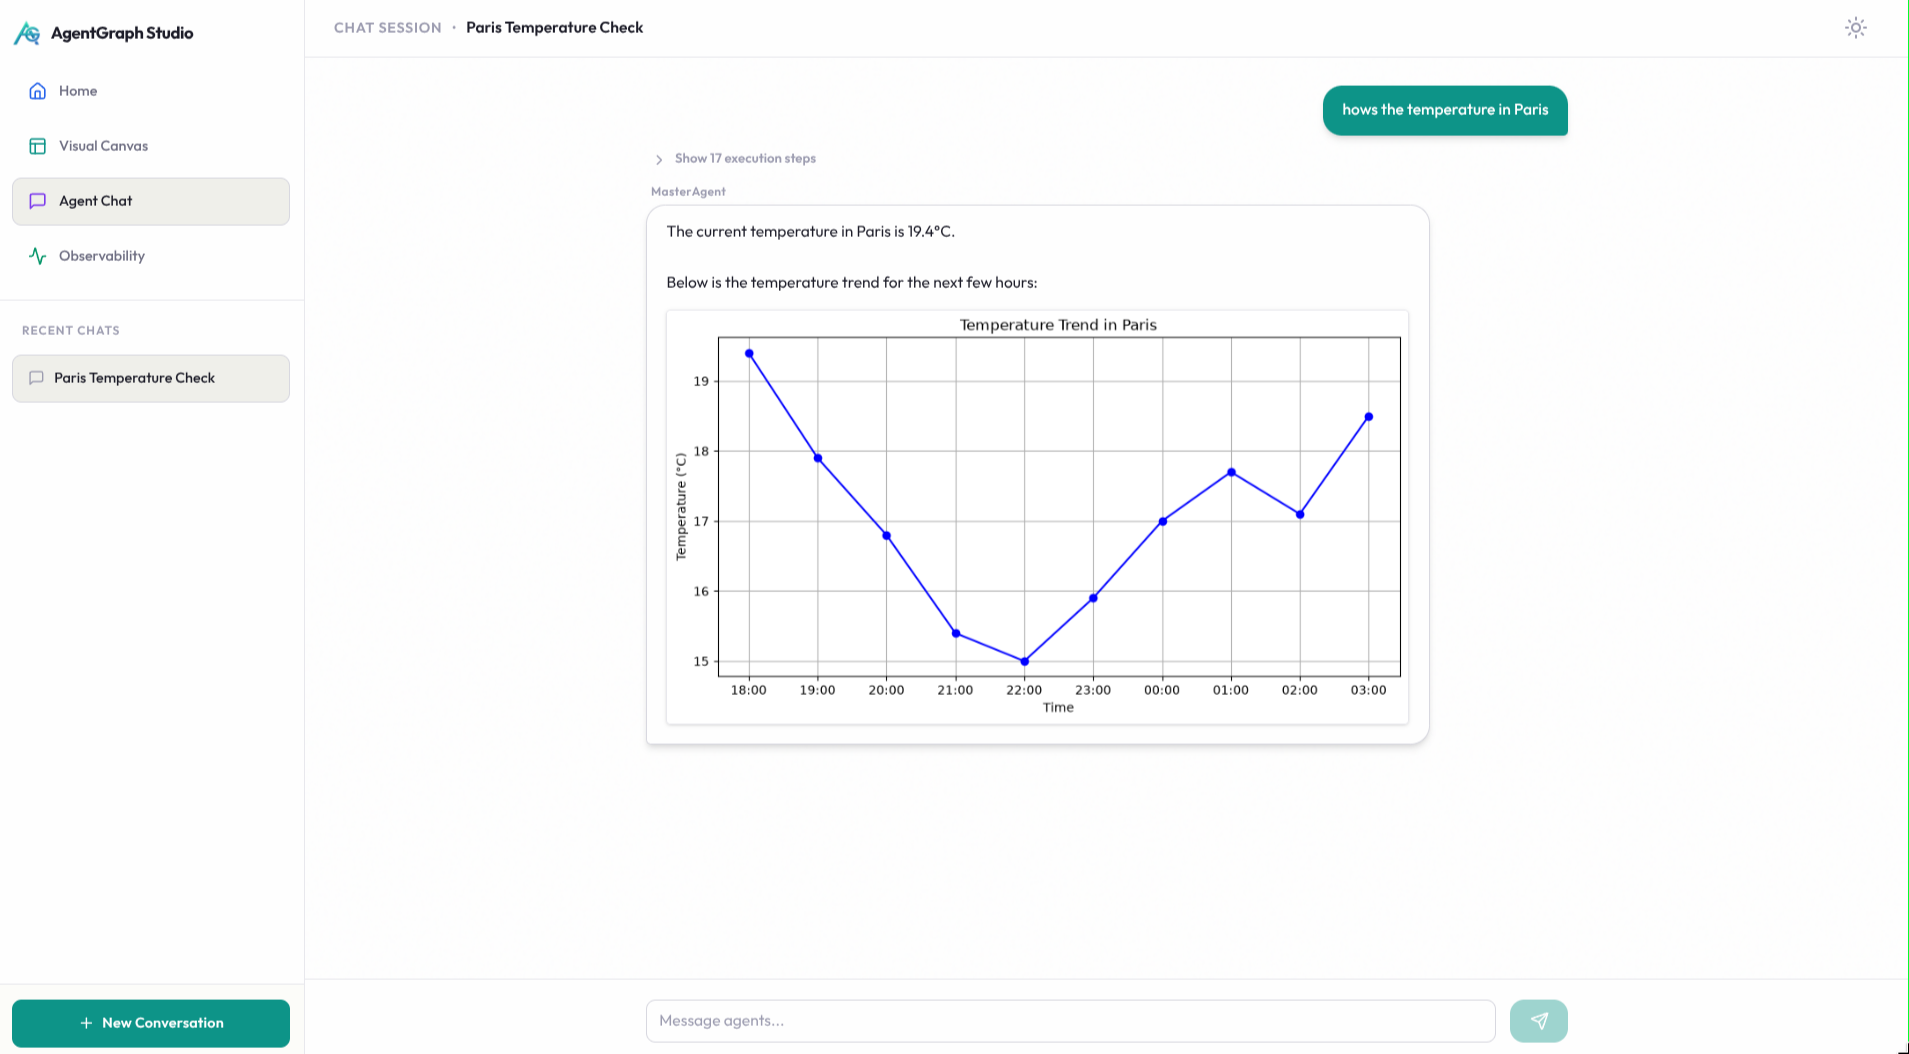
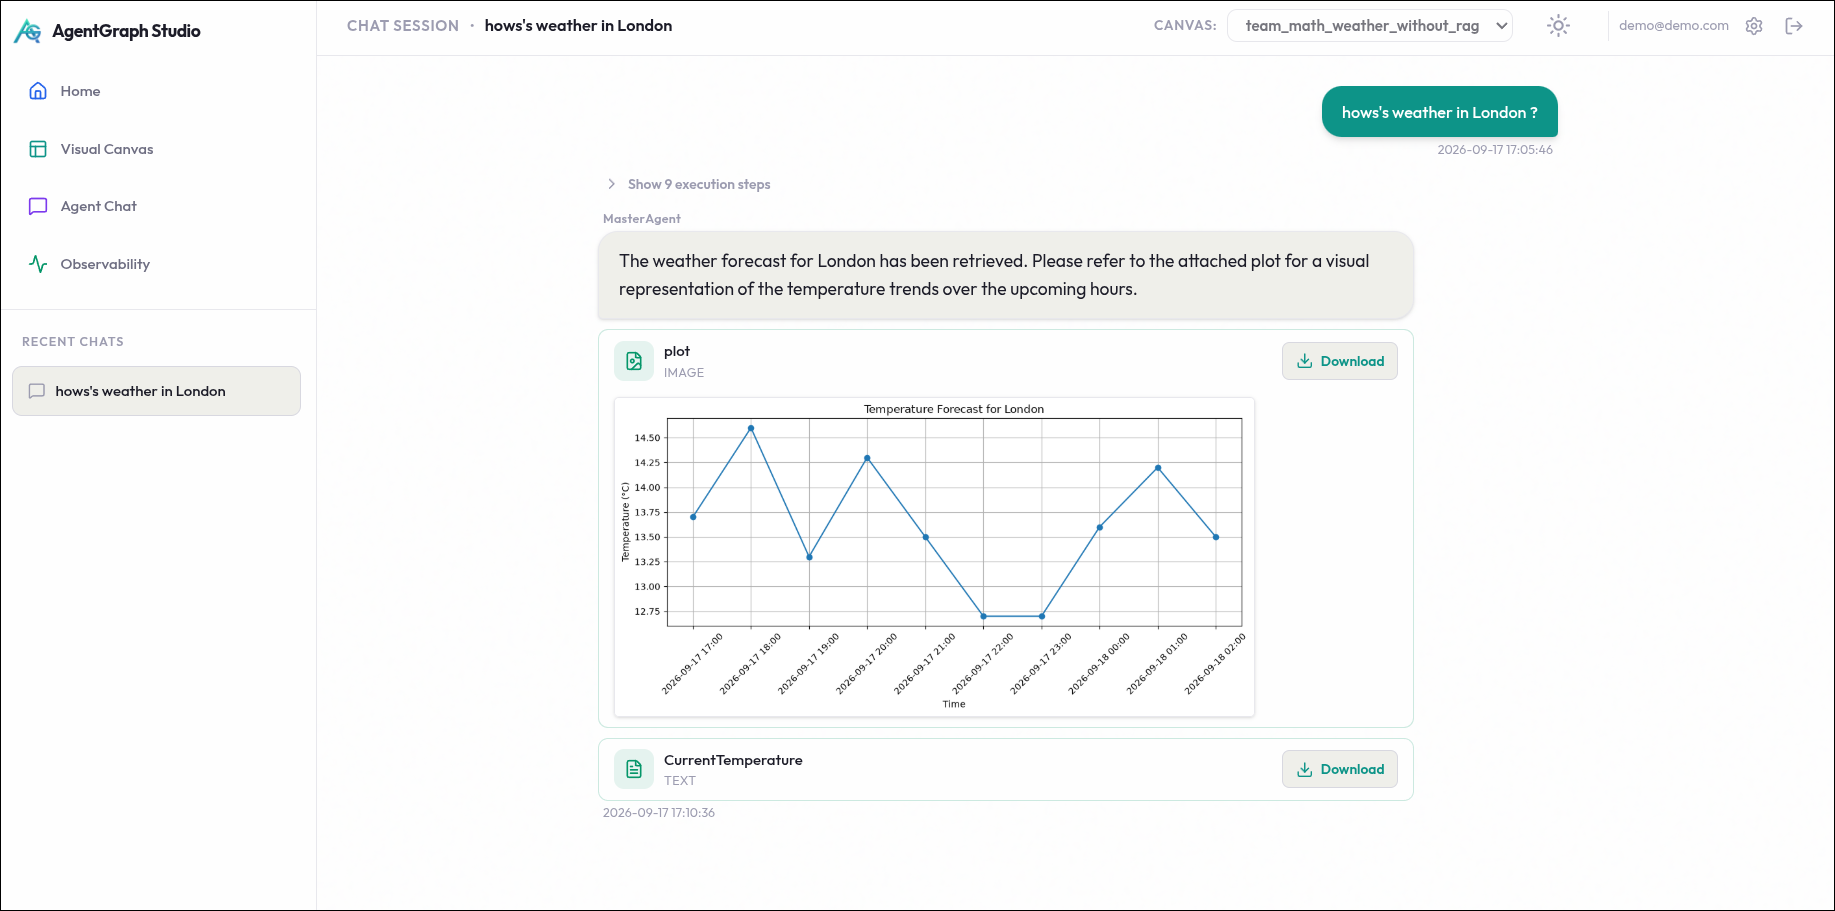
chore: update image dimensions in README and replace chat example images

diff --git a/README.md b/README.md
@@ -23,10 +23,10 @@
 
 <table>
   <tr>
-    <td width="72%">
+    <td width="74%">
       <img src="docs/canvas_example.png" alt="ReactFlow Workflow Builder" />
     </td>
-    <td width="28%">
+    <td width="26%">
       <img src="docs/chat_example1.png" alt="Real-time Streaming Chat" /><br/><br/>
       <img src="docs/chat_example2.png" alt="Real-time Streaming Chat" />
     </td>
